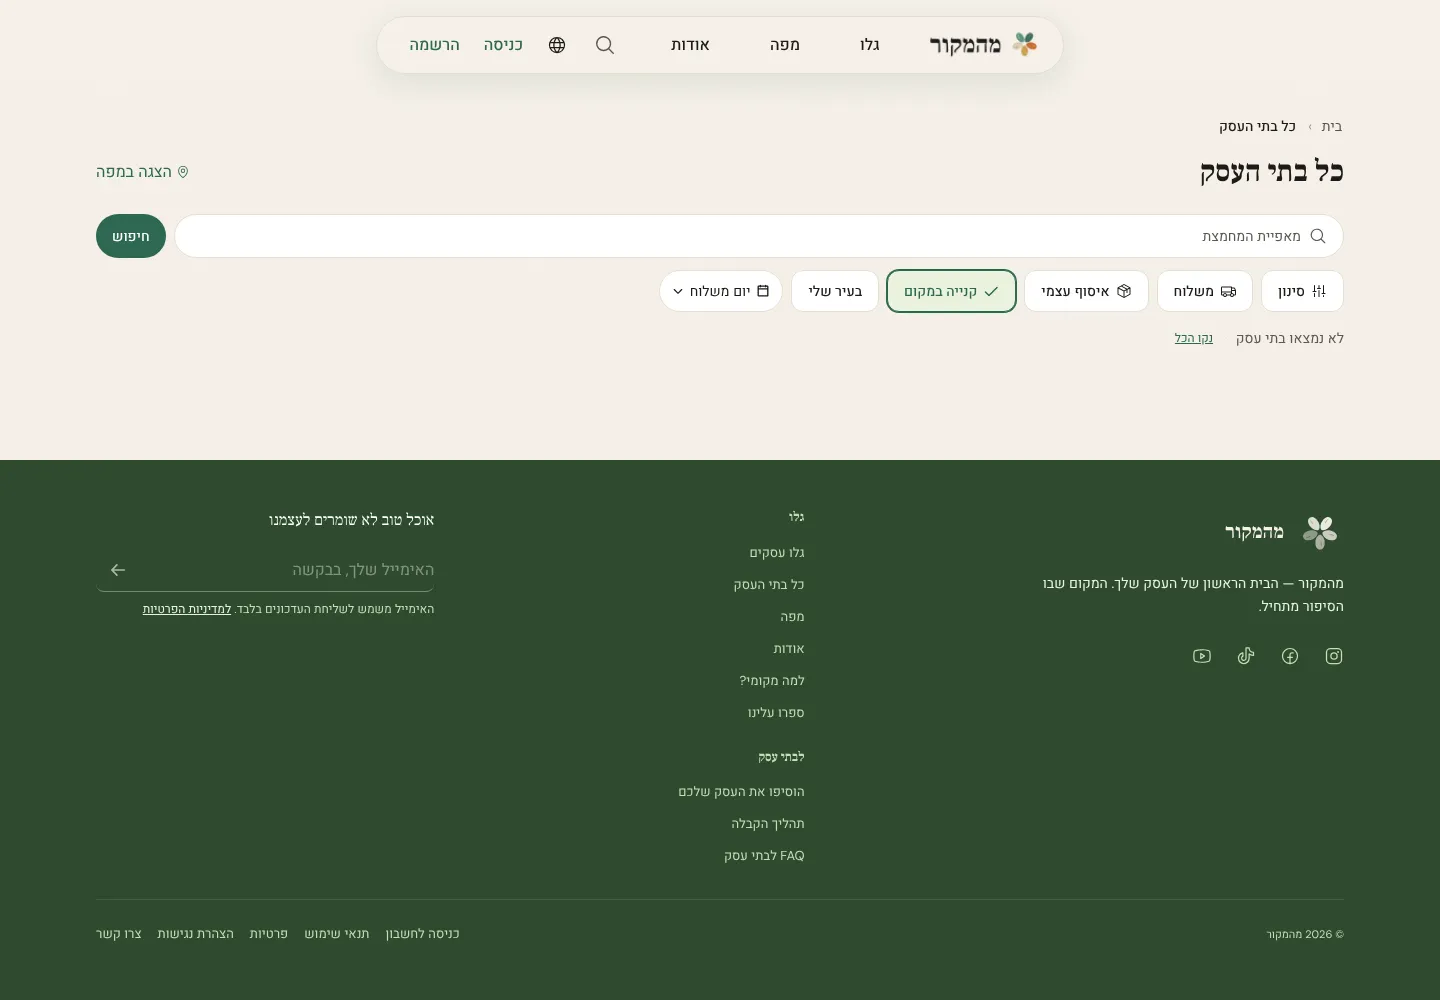
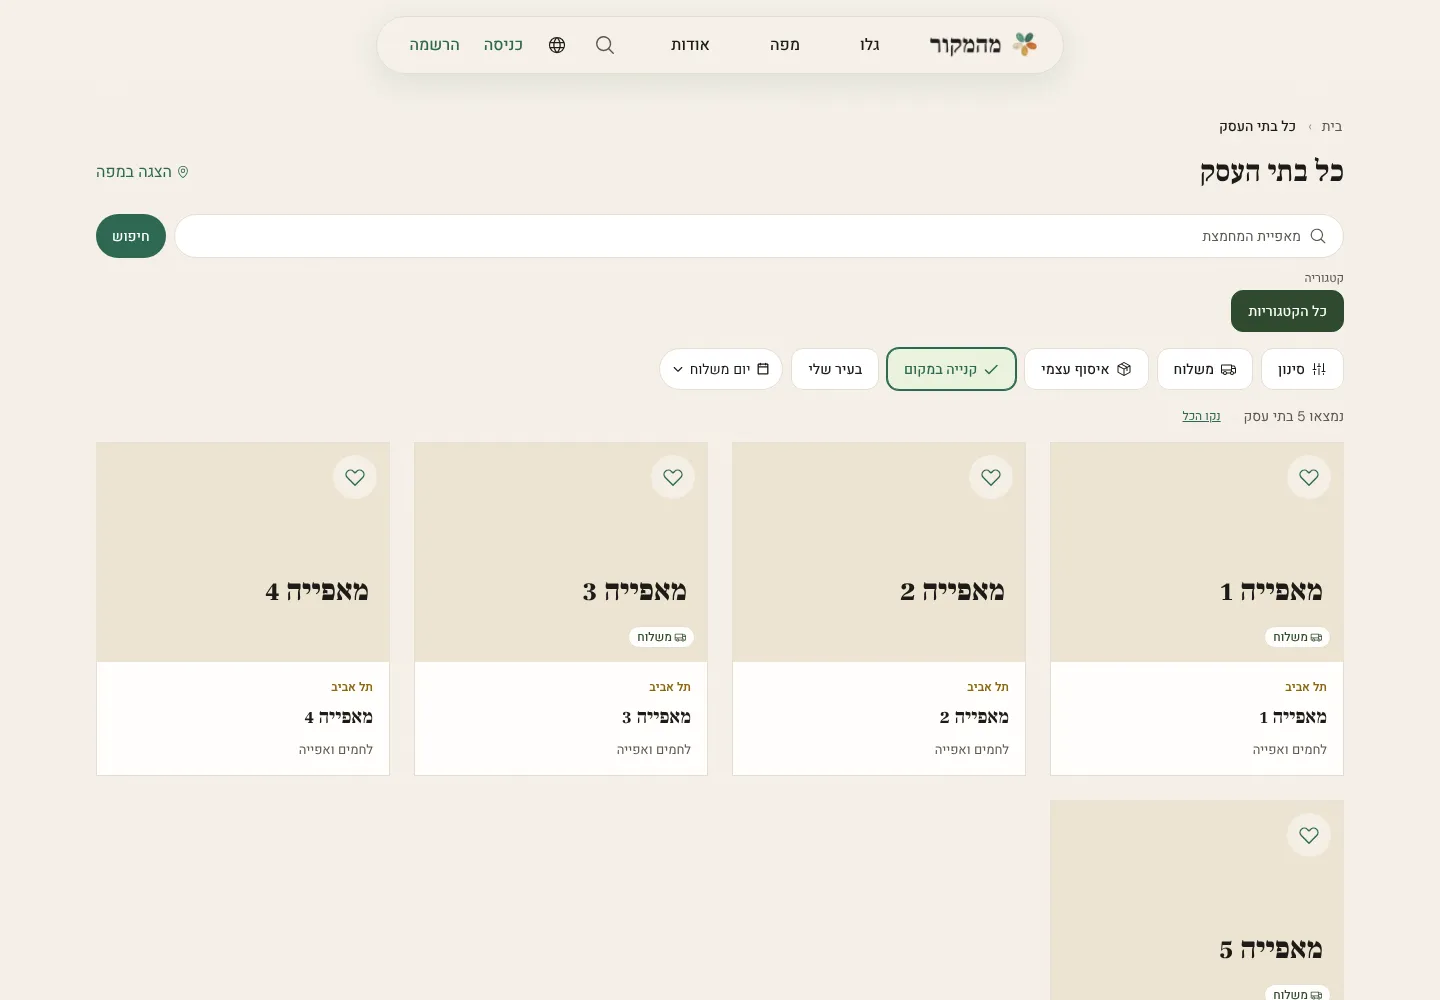
fix(MEH-2598): read map filters on the client; never lose the filtered load (#3886)
CI reviewer on #3883:
- A deep link whose unfiltered snapshot request failed (or came back
  malformed) never ran the filtered load — /map?on_site=1 showed an empty
  map with the chip on. The chained load now runs from the failure paths too,
  and the loading flag is left to it instead of being cleared under it.
- The map now reads its URL filters on mount (useMapFilters' first effect
  run hydrates instead of writing; useProducersFeed reads the same URL for
  its first fetch) rather than through page.js searchParams, so the route's
  rendering mode is untouched. (Measured: no locale page is prerendered in
  this app today, so this costs nothing either way.)
- Tests: snapshot-failure case, off value + non-axis param case. Two map
  test files reset the URL per test — the hook now carries state in it.

Builder-Model: claude-opus-5-5

Claude-Session: https://claude.ai/code/session_01X8DSqYSHGQRWpJrKV2bX5M

diff --git a/frontend/__tests__/listMapFilterHandoff.test.jsx b/frontend/__tests__/listMapFilterHandoff.test.jsx
@@ -56,8 +56,9 @@ describe("lib/filter-url", () => {
 describe("/map chip state ⇄ URL", () => {
   beforeEach(() => window.history.replaceState(null, "", "/map?utm_source=x"));
 
-  const setup = (initialChips) =>
-    renderHook(() =>
+  const setup = (search) => {
+    if (search !== undefined) window.history.replaceState(null, "", `/map${search}`);
+    return renderHook(() =>
       useMapFilters({
         allProducers: [],
         categories: [],
@@ -65,18 +66,18 @@ describe("/map chip state ⇄ URL", () => {
         userCity: "תל אביב",
         setUserCity: vi.fn(),
         setShowCityPicker: vi.fn(),
-        initialChips,
       }),
     ).result;
+  };
 
   it("starts with the chips the URL carried, pressed", () => {
-    const result = setup({ on_site: true });
+    const result = setup("?on_site=1");
     expect(result.current.chipState.on_site).toBe(true);
     expect(result.current.chipState.has_delivery).toBe(false);
   });
 
   it("mirrors a toggle into the URL and keeps unrelated params", () => {
-    const result = setup({});
+    const result = setup();
     act(() => result.current.onToggleChipClick("pickup_points"));
     const sp = new URLSearchParams(window.location.search);
     expect(sp.get("pickup_points")).toBe("1");
@@ -85,9 +86,15 @@ describe("/map chip state ⇄ URL", () => {
     expect(new URLSearchParams(window.location.search).has("pickup_points")).toBe(false);
   });
 
+  it("ignores off values and non-axis params, and leaves them alone", () => {
+    const result = setup("?on_site=0&foo=1");
+    expect(result.current.chipState.on_site).toBe(false);
+    expect(new URLSearchParams(window.location.search).get("foo")).toBe("1");
+  });
+
   it("rewrites home's ?delivery=1 alias to the one spelling", () => {
-    window.history.replaceState(null, "", "/map?delivery=1");
-    setup({ has_delivery: true });
+    const result = setup("?delivery=1");
+    expect(result.current.chipState.has_delivery).toBe(true);
     const sp = new URLSearchParams(window.location.search);
     expect(sp.get("has_delivery")).toBe("1");
     expect(sp.has("delivery")).toBe(false);
@@ -105,13 +112,27 @@ describe("/map feed with filters from the URL", () => {
       const data = params?.on_site ? [{ id: "f", name: "filtered" }] : [{ id: "a", name: "all" }, { id: "b", name: "b" }];
       return Promise.resolve({ data });
     });
-    const { result } = renderHook(() => useProducersFeed({ initialParams: { on_site: true } }));
+    const { result } = renderHook(() => useProducersFeed({ readInitialParams: () => ({ on_site: true }) }));
     await waitFor(() => expect(calls).toHaveLength(2));
     expect(calls[0]).toEqual({});
     expect(calls[1]).toEqual({ on_site: true });
     await waitFor(() => expect(result.current.allProducers.map((p) => p.id)).toEqual(["f"]));
     expect(result.current.catalogSnapshot.map((p) => p.id)).toEqual(["a", "b"]);
     expect(calls).toHaveLength(2);
+  });
+
+  it("still loads the filtered list when the unfiltered snapshot request fails", async () => {
+    const calls = [];
+    apiGet.mockImplementation((path, { params } = {}) => {
+      if (path === "/categories") return Promise.resolve({ data: [] });
+      calls.push(params);
+      if (path === "/producers" && !params?.on_site) return Promise.reject(new Error("snapshot down"));
+      return Promise.resolve({ data: [{ id: "f", name: "filtered" }] });
+    });
+    const { result } = renderHook(() => useProducersFeed({ readInitialParams: () => ({ on_site: true }) }));
+    await waitFor(() => expect(result.current.allProducers.map((p) => p.id)).toEqual(["f"]));
+    expect(calls).toHaveLength(2);
+    expect(result.current.catalogSnapshot).toBeNull();
   });
 
   it("control: without filters there is one unfiltered fetch and it is the list", async () => {
@@ -121,7 +142,7 @@ describe("/map feed with filters from the URL", () => {
       calls.push(params);
       return Promise.resolve({ data: [{ id: "a", name: "all" }] });
     });
-    const { result } = renderHook(() => useProducersFeed({ initialParams: {} }));
+    const { result } = renderHook(() => useProducersFeed({ readInitialParams: () => ({}) }));
     await waitFor(() => expect(result.current.allProducers.map((p) => p.id)).toEqual(["a"]));
     expect(calls).toHaveLength(1);
   });

diff --git a/frontend/app/[locale]/map/state/useMapFilters.js b/frontend/app/[locale]/map/state/useMapFilters.js
@@ -13,6 +13,7 @@ import {
 // useState below for the three-way drift that made a hand-written copy a bad
 // idea, and for why `categoryKeys` stays out of it.
 import { defaultsForKeys, homeParamFor } from "@/lib/filter-taxonomy";
+import { chipsFromQuery } from "@/lib/filter-url";
 import { haversineKm } from "@/lib/distance";
 import { producerInBounds, producerPoints } from "@/lib/producerPoints";
 
@@ -106,9 +107,6 @@ export function useMapFilters({
   // MEH-2170: the one-time mount catalog from useProducersFeed. null = not
   // loaded yet, and then no toggle is hidden.
   catalogSnapshot = null,
-  // MEH-2598: `{ key: true }` read from the URL by the page (lib/filter-url),
-  // so a filter set on the list arrives switched on.
-  initialChips = {},
 }) {
   const [cityFilter, setCityFilter] = useState("");
   const [committedBounds, setCommittedBounds] = useState(null);
@@ -151,16 +149,32 @@ export function useMapFilters({
   const [chipState, setChipState] = useState(() => ({
     categoryKeys: [],
     ...defaultsForKeys(TOGGLE_CHIPS.map((c) => c.key)),
-    ...initialChips,
   }));
+  const urlHydrated = useRef(false);
 
   // MEH-2598: mirror the attribute chips into the URL so a refresh, the back
   // button, a shared link and the «הצגה ברשימה»-style hops all keep them. The
   // shallow History API, not router.replace — the MEH-1293 reason (a router
   // navigation re-runs the server page and its SSR fetch on every toggle).
   // Other params on the URL (utm_*, …) are kept; only axis params are rewritten.
+  //
+  // First run: READ instead of write — a filter set on the list
+  // (lib/filter-url) arrives switched on. Done after mount rather than in the
+  // initial state so the server render and hydration agree and /map stays a
+  // static route; useProducersFeed reads the same URL for its first fetch.
   useEffect(() => {
     if (typeof window === "undefined") return;
+    if (!urlHydrated.current) {
+      urlHydrated.current = true;
+      const found = chipsFromQuery(
+        new URLSearchParams(window.location.search),
+        TOGGLE_CHIPS.map((c) => c.key),
+      );
+      if (Object.keys(found).length > 0) {
+        setChipState((prev) => ({ ...prev, ...found }));
+        return;
+      }
+    }
     const url = new URL(window.location.href);
     // homeParamFor: home's `?delivery=1` alias is read on arrival, then
     // rewritten to the one spelling so the URL never says it twice.

diff --git a/frontend/app/[locale]/map/state/useProducersFeed.js b/frontend/app/[locale]/map/state/useProducersFeed.js
@@ -19,7 +19,7 @@ import { ProducersResponseSchema } from "@/lib/schemas";
  * the geo bounds are degenerate. This is preserved verbatim from the
  * source (:423-426).
  */
-export function useProducersFeed({ initialParams = null } = {}) {
+export function useProducersFeed({ readInitialParams = null } = {}) {
   const t = useTranslations();
   const [allProducers, setAllProducers] = useState([]);
   const [categories, setCategories] = useState([]);
@@ -56,6 +56,8 @@ export function useProducersFeed({ initialParams = null } = {}) {
         const parsed = ProducersResponseSchema.safeParse(r.data);
         if (!parsed.success) {
           handleLoadFailure(parsed.error.issues);
+          // MEH-2598: a failed snapshot must not swallow the filtered load.
+          then?.();
           return;
         }
         // MEH-2170: only the mount call asks for the snapshot; a failed or
@@ -71,17 +73,27 @@ export function useProducersFeed({ initialParams = null } = {}) {
         }
         setAllProducers(parsed.data);
       })
-      .catch(handleLoadFailure)
+      .catch((reason) => {
+        handleLoadFailure(reason);
+        // MEH-2598: a failed snapshot must not swallow the filtered load.
+        then?.();
+      })
       // MEH-1054: every terminal path (data / malformed / network error)
       // clears loading — the failure states already render their own UX
       // (empty list + toast), the skeleton must not stick over them.
-      .finally(() => setLoading(false));
+      .finally(() => {
+        // MEH-2598: a chained filtered load owns the flag from here.
+        if (!then) setLoading(false);
+      });
   };
 
   useEffect(() => {
     api.get("/categories").then((r) => setCategories(r.data)).catch(() => {});
     // MEH-2598: /map?has_delivery=1… (from the list's «הצגה במפה») — the
-    // snapshot stays unfiltered; the filtered list follows it.
+    // snapshot stays unfiltered; the filtered list follows it. Read from
+    // window.location on mount (client only), not from the server page's
+    // searchParams, so /map stays a static route.
+    const initialParams = readInitialParams ? readInitialParams() : null;
     const hasInitial = initialParams && Object.keys(initialParams).length > 0;
     loadProducers(
       {},

diff --git a/frontend/app/[locale]/map/MapClient.jsx b/frontend/app/[locale]/map/MapClient.jsx
@@ -10,6 +10,7 @@ import MapBottomSheet from "@/components/MapBottomSheet";
 import { haversineKm } from "@/lib/distance";
 import { defaultsForKeys } from "@/lib/filter-taxonomy";
 import { TOGGLE_CHIPS, chipStateToParams } from "@/lib/map-chips";
+import { chipsFromQuery } from "@/lib/filter-url";
 import { geocodeCity } from "@/lib/places";
 import { producerPoints, hiddenWhenSecondaryOff } from "@/lib/producerPoints";
 import { isRatingSortEnabled } from "@/lib/rating-gate";
@@ -76,7 +77,7 @@ const MOBILE_BANNER_RESERVE =
  * Full split rationale + cycle-break notes in
  * docs/REFACTOR_PLAN.md §File 1 ("Implementation note").
  */
-export default function MapPage({ initialChips = {} }) {
+export default function MapPage() {
   // MEH-473: i18n Wave 3.
   const t = useTranslations();
   // Self-contained hook (zero cross-hook inputs after 11a).
@@ -295,9 +296,17 @@ export default function MapPage({ initialChips = {} }) {
     return () => document.removeEventListener("keydown", onKeyDown);
   }, []);
 
-  // MEH-2598: filters carried in from the list (page.js reads the URL).
+  // MEH-2598: filters carried in from the list (`/map?on_site=1`, lib/filter-url)
+  // — the first fetch is already filtered; useMapFilters presses the chips.
   const feed = useProducersFeed({
-    initialParams: chipStateToParams({ categoryKeys: [], ...initialChips }, []),
+    readInitialParams: () =>
+      chipStateToParams(
+        {
+          categoryKeys: [],
+          ...chipsFromQuery(new URLSearchParams(window.location.search), TOGGLE_CHIPS.map((c) => c.key)),
+        },
+        [],
+      ),
   });
   // MEH-1864: "לפי דירוג" is offered only once RATING_SORT_THRESHOLD businesses
   // carry >= 1 review. /map holds the whole feed client-side, so the count is
@@ -322,7 +331,6 @@ export default function MapPage({ initialChips = {} }) {
     // MEH-1670: the viewport filter derives points the same way the marker layer
     // does, so it needs the same layer-toggle state.
     showSecondaryLayer,
-    initialChips,
   });
   const sync = useMapSync({
     chipState: filters.chipState,

diff --git a/frontend/app/[locale]/map/page.js b/frontend/app/[locale]/map/page.js
@@ -2,8 +2,6 @@ import Link from "next/link";
 import { getTranslations } from "next-intl/server";
 
 import MapClient from "./MapClient";
-import { chipsFromQuery } from "@/lib/filter-url";
-import { TOGGLE_CHIPS } from "@/lib/map-chips";
 import { API_URL } from "@/lib/env";
 import { serverFetch } from "@/lib/server-fetch"; // MEH-977: timeout + transient-retry
 import { BRAND_NAME } from "@/lib/constants";
@@ -63,14 +61,7 @@ async function fetchProducersForSSR() {
   }
 }
 
-export default async function MapPage(props) {
-  // MEH-2598: filters carried in from the list (`?on_site=1` …). Read here, not
-  // with useSearchParams in MapClient, so the first render already has them —
-  // no Suspense boundary, no pressed-state hydration mismatch.
-  const initialChips = chipsFromQuery(
-    await props.searchParams,
-    TOGGLE_CHIPS.map((c) => c.key),
-  );
+export default async function MapPage() {
   // MEH-473: page-level metadata translation deferred to Wave 6 (SEO).
   // sr-only nav strings are functional UI, translated here.
   const t = await getTranslations();
@@ -78,7 +69,7 @@ export default async function MapPage(props) {
 
   return (
     <>
-      <MapClient initialChips={initialChips} />
+      <MapClient />
 
       {/*
         MEH-151 — SSR producer index for Googlebot.

diff --git a/frontend/__tests__/MapFilterNoDuplicates.test.jsx b/frontend/__tests__/MapFilterNoDuplicates.test.jsx
@@ -10,7 +10,7 @@
  * Behaviour, not constants (ADR-032 §3.6): the hook's tag list, the rendered
  * bar, and the sheet's zero line are each driven and read back.
  */
-import { describe, it, expect, vi } from "vitest";
+import { describe, it, expect, vi, beforeEach } from "vitest";
 import { render, screen, renderHook, fireEvent, act } from "@testing-library/react";
 
 import FilterChipsBar from "@/app/[locale]/map/components/FilterChipsBar";
@@ -39,6 +39,11 @@ const hook = () =>
   ).result;
 
 const ALL_ON = Object.fromEntries(TOGGLE_CHIPS.map((c) => [c.key, true]));
+
+// MEH-2598: useMapFilters now mirrors its chips into the URL and reads them
+// back on mount, so a test that switches every chip on would otherwise hand
+// its URL to the next renderHook in this file.
+beforeEach(() => window.history.replaceState(null, "", "/"));
 
 describe("active-filter tags never repeat a chip that is already on screen", () => {
   it("the service keys are real toggle chips (control: the filter below has something to drop)", () => {

diff --git a/frontend/__tests__/ServiceChipRow.test.jsx b/frontend/__tests__/ServiceChipRow.test.jsx
@@ -32,7 +32,7 @@
  * renders unconditionally or if pickup leaks into the cross-surface taxonomy.
  */
 
-import { describe, it, expect, vi } from "vitest";
+import { describe, it, expect, vi, beforeEach } from "vitest";
 import { render, screen, fireEvent, renderHook, act } from "@testing-library/react";
 
 import ServiceChipRow from "@/app/[locale]/map/components/ServiceChipRow";
@@ -48,6 +48,10 @@ const EMPTY = {
   pickup_points: false,
   verified: false,
 };
+
+// MEH-2598: useMapFilters mirrors its chips into the URL and reads them back
+// on mount — reset it so one test's chips do not seed the next renderHook.
+beforeEach(() => window.history.replaceState(null, "", "/"));
 
 describe("ServiceChipRow — the promoted /map service pair (MEH-2046)", () => {
   it("renders both service chips, always", () => {

diff --git a/frontend/lib/filter-url.js b/frontend/lib/filter-url.js
@@ -20,6 +20,8 @@ import { FILTER_AXES, homeParamFor } from "@/lib/filter-taxonomy";
  * keys, and a category is a separate dimension with its own exit («כל»).
  */
 
+// Read accepts "true" as well (the API's own spelling, in case a hand-typed
+// link uses it); write is always "1".
 const isOn = (v) => v === "1" || v === "true";
 
 /** `query` is a URLSearchParams or a plain `{ param: value }` record
